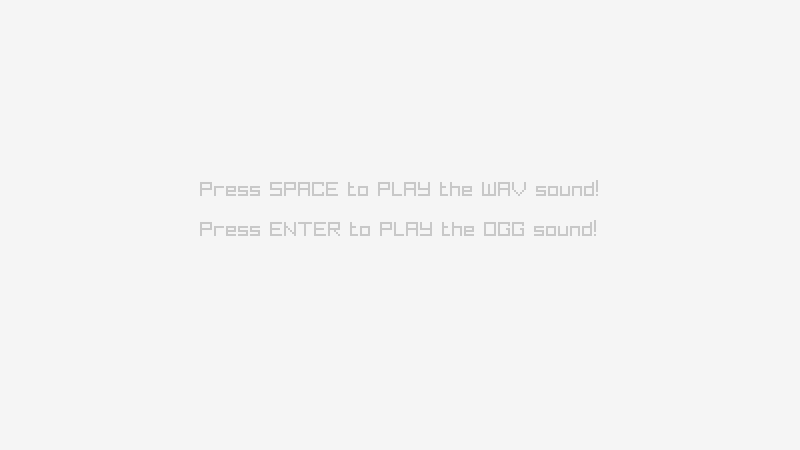
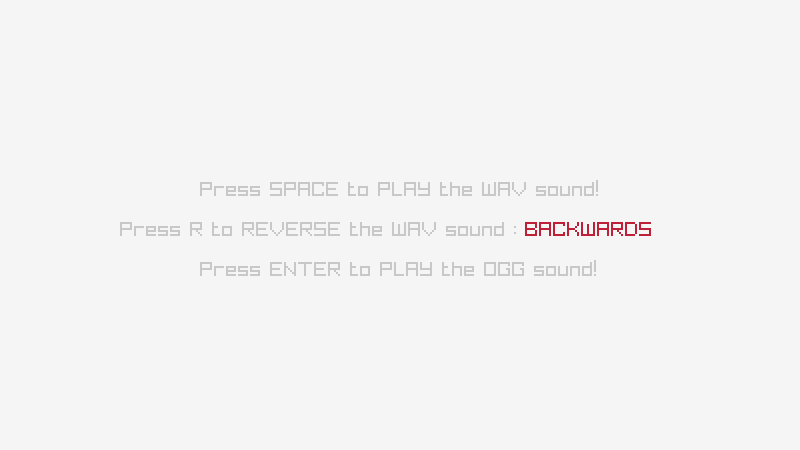
THIS COMMIT IS FOR REVIEW: audio update functions clarity review in examples

Changed region(s): [[0.1562, 0.4667, 0.8125, 0.5289], [0.25, 0.56, 0.75, 0.6222]]

diff --git a/examples/audio/audio_raw_stream_callback.c b/examples/audio/audio_raw_stream_callback.c
@@ -4,7 +4,7 @@
 *
 *   Example complexity rating: [★★★☆] 3/4
 *
-*   Example originally created with raylib 1.6, last time updated with raylib 4.2
+*   Example originally created with raylib 1.6, last time updated with raylib 6.0
 *
 *   Example created by Ramon Santamaria (@raysan5) and reviewed by James Hofmann (@triplefox)
 *
@@ -19,7 +19,12 @@
 
 #include <stdlib.h>         // Required for: malloc(), free()
 #include <math.h>           // Required for: sinf()
-#include <string.h>         // Required for: memcpy()
+
+enum Flags { FLAG_CHANNEL_MONO = 1u<<0, FLAG_SAMPLESIZE_SHORT = 1u<<1 };
+static unsigned int gflags = FLAG_CHANNEL_MONO | FLAG_SAMPLESIZE_SHORT; // mono + 16-bit to match initial stream specs
+#define CHANNEL_MONO() ((gflags & FLAG_CHANNEL_MONO) != 0)
+#define SAMPLESIZE_SHORT() ((gflags & FLAG_SAMPLESIZE_SHORT) != 0)
+#define TOGGLE(K, F) do { if (IsKeyPressed(K)) { gflags ^= (F); } } while (0)
 
 #define MAX_SAMPLES               512
 #define MAX_SAMPLES_PER_UPDATE   4096
@@ -37,7 +42,7 @@ float oldFrequency = 1.0f;
 float sineIdx = 0.0f;
 
 // Audio input processing callback
-void AudioInputCallback(void *buffer, unsigned int frames)
+void AudioInputCallbackMonoShort(void *buffer, unsigned int frames)
 {
     audioFrequency = frequency + (audioFrequency - frequency)*0.95f;
 
@@ -47,6 +52,54 @@ void AudioInputCallback(void *buffer, unsigned int frames)
     for (unsigned int i = 0; i < frames; i++)
     {
         d[i] = (short)(32000.0f*sinf(2*PI*sineIdx));
+        sineIdx += incr;
+        if (sineIdx > 1.0f) sineIdx -= 1.0f;
+    }
+}
+
+void AudioInputCallbackStereoShort(void *buffer, unsigned int frames)
+{
+    audioFrequency = frequency + (audioFrequency - frequency)*0.95f;
+
+    float incr = audioFrequency/44100.0f;
+    short *d = (short *)buffer;
+
+    for (unsigned int i = 0; i < frames; i++)
+    {
+        short s = (short)(32000.0f*sinf(2*PI*sineIdx));
+        d[2*i + 0] = s;   // L
+        d[2*i + 1] = s;   // R
+        sineIdx += incr;
+        if (sineIdx > 1.0f) sineIdx -= 1.0f;
+    }
+}
+
+void AudioInputCallbackMonoFloat(void *buffer, unsigned int frames)
+{
+    audioFrequency = frequency + (audioFrequency - frequency)*0.95f;
+
+    float incr = audioFrequency/44100.0f;
+    float *d = (float *)buffer;
+
+    for (unsigned int i = 0; i < frames; i++)
+    {
+        d[i] = sinf(2*PI*sineIdx);
+        sineIdx += incr;
+        if (sineIdx > 1.0f) sineIdx -= 1.0f;
+    }
+}
+
+void AudioInputCallbackStereoFloat(void *buffer, unsigned int frames)
+{
+    audioFrequency = frequency + (audioFrequency - frequency)*0.95f;
+    float incr = audioFrequency/44100.0f;
+    float *d = (float *)buffer;
+    for (unsigned int i = 0; i < frames; i++)
+    {
+        float s = sinf(2*PI*sineIdx);
+        d[2*i + 0] = s;
+        d[2*i + 1] = s;
+
         sineIdx += incr;
         if (sineIdx > 1.0f) sineIdx -= 1.0f;
     }
@@ -62,7 +115,7 @@ int main(void)
     const int screenWidth = 800;
     const int screenHeight = 450;
 
-    InitWindow(screenWidth, screenHeight, "raylib [audio] example - raw stream");
+    InitWindow(screenWidth, screenHeight, "raylib [audio] example - raw stream with callbacks");
 
     InitAudioDevice();              // Initialize audio device
 
@@ -71,7 +124,9 @@ int main(void)
     // Init raw audio stream (sample rate: 44100, sample size: 16bit-short, channels: 1-mono)
     AudioStream stream = LoadAudioStream(44100, 16, 1);
 
-    SetAudioStreamCallback(stream, AudioInputCallback);
+    SetAudioStreamCallback(stream, AudioInputCallbackMonoShort);
+    unsigned int previousSampleSize = stream.sampleSize;
+    unsigned int previousChannels   = stream.channels;
 
     // Buffer for the single cycle waveform we are synthesizing
     short *data = (short *)malloc(sizeof(short)*MAX_SAMPLES);
@@ -84,17 +139,6 @@ int main(void)
     // Position read in to determine next frequency
     Vector2 mousePosition = { -100.0f, -100.0f };
 
-    /*
-    // Cycles per second (hz)
-    float frequency = 440.0f;
-
-    // Previous value, used to test if sine needs to be rewritten, and to smoothly modulate frequency
-    float oldFrequency = 1.0f;
-
-    // Cursor to read and copy the samples of the sine wave buffer
-    int readCursor = 0;
-    */
-
     // Computed size in samples of the sine wave
     int waveLength = 1;
 
@@ -106,6 +150,32 @@ int main(void)
     // Main game loop
     while (!WindowShouldClose())    // Detect window close button or ESC key
     {
+        TOGGLE(KEY_M, FLAG_CHANNEL_MONO);
+        TOGGLE(KEY_F, FLAG_SAMPLESIZE_SHORT);
+        unsigned int nextSampleSize = (SAMPLESIZE_SHORT())? 16u : 32u;
+        unsigned int nextChannels = (CHANNEL_MONO())? 1u  : 2u;
+        if (nextSampleSize != previousSampleSize || nextChannels != previousChannels)
+        {
+            StopAudioStream(stream);
+            UnloadAudioStream(stream);
+            stream = LoadAudioStream(44100, nextSampleSize, nextChannels);
+            // CORRECT ALIGNMENT
+            if (nextChannels == 1 && nextSampleSize == 16) SetAudioStreamCallback(stream, AudioInputCallbackMonoShort);
+            if (nextChannels == 2 && nextSampleSize == 16) SetAudioStreamCallback(stream, AudioInputCallbackStereoShort);
+            if (nextChannels == 1 && nextSampleSize == 32) SetAudioStreamCallback(stream, AudioInputCallbackMonoFloat);
+            if (nextChannels == 2 && nextSampleSize == 32) SetAudioStreamCallback(stream, AudioInputCallbackStereoFloat);
+
+            // INCORRECT ALIGNMENT TESTS: comment and uncomment or add your own to observe common misconfigurations
+            // if (nextChannels == 1 && nextSampleSize == 16) SetAudioStreamCallback(stream, AudioInputCallbackStereoShort);
+            // if (nextChannels == 1 && nextSampleSize == 32) SetAudioStreamCallback(stream, AudioInputCallbackMonoShort);
+            // if (nextChannels == 2 && nextSampleSize == 32) SetAudioStreamCallback(stream, AudioInputCallbackMonoShort);
+            // if (nextChannels == 2 && nextSampleSize == 16) SetAudioStreamCallback(stream, AudioInputCallbackMonoFloat);
+            // if (nextChannels == 2 && nextSampleSize == 16) SetAudioStreamCallback(stream, AudioInputCallbackStereoFloat);
+
+            PlayAudioStream(stream);
+            previousSampleSize = nextSampleSize;
+            previousChannels = nextChannels;
+        }
         // Update
         //----------------------------------------------------------------------------------
         mousePosition = GetMousePosition();
@@ -124,7 +194,6 @@ int main(void)
         if (frequency != oldFrequency)
         {
             // Compute wavelength. Limit size in both directions
-            //int oldWavelength = waveLength;
             waveLength = (int)(22050/frequency);
             if (waveLength > MAX_SAMPLES/2) waveLength = MAX_SAMPLES/2;
             if (waveLength < 1) waveLength = 1;
@@ -140,41 +209,9 @@ int main(void)
                 data[j] = (short)0;
             }
 
-            // Scale read cursor's position to minimize transition artifacts
-            //readCursor = (int)(readCursor*((float)waveLength/(float)oldWavelength));
             oldFrequency = frequency;
         }
 
-        /*
-        // Refill audio stream if required
-        if (IsAudioStreamProcessed(stream))
-        {
-            // Synthesize a buffer that is exactly the requested size
-            int writeCursor = 0;
-
-            while (writeCursor < MAX_SAMPLES_PER_UPDATE)
-            {
-                // Start by trying to write the whole chunk at once
-                int writeLength = MAX_SAMPLES_PER_UPDATE-writeCursor;
-
-                // Limit to the maximum readable size
-                int readLength = waveLength-readCursor;
-
-                if (writeLength > readLength) writeLength = readLength;
-
-                // Write the slice
-                memcpy(writeBuf + writeCursor, data + readCursor, writeLength*sizeof(short));
-
-                // Update cursors and loop audio
-                readCursor = (readCursor + writeLength) % waveLength;
-
-                writeCursor += writeLength;
-            }
-
-            // Copy finished frame to audio stream
-            UpdateAudioStream(stream, writeBuf, MAX_SAMPLES_PER_UPDATE);
-        }
-        */
         //----------------------------------------------------------------------------------
 
         // Draw
@@ -185,6 +222,10 @@ int main(void)
 
             DrawText(TextFormat("sine frequency: %i",(int)frequency), GetScreenWidth() - 220, 10, 20, RED);
             DrawText("click mouse button to change frequency or pan", 10, 10, 20, DARKGRAY);
+            DrawText("press M to SWAP channels [ M ]:", 250, 366, 20, BLUE);
+            DrawText((CHANNEL_MONO())? "MONO" : "STEREO", 600, 366, 20, (CHANNEL_MONO())? GREEN : RED);
+            DrawText("press F to SWAP Sample Size [ F ]:", 250, 400, 20, BLUE);
+            DrawText((SAMPLESIZE_SHORT())? "16" : "32", 620, 400, 20, (SAMPLESIZE_SHORT())? GREEN : RED);
 
             // Draw the current buffer state proportionate to the screen
             for (int i = 0; i < screenWidth; i++)

diff --git a/examples/audio/audio_sound_loading.c b/examples/audio/audio_sound_loading.c
@@ -4,7 +4,7 @@
 *
 *   Example complexity rating: [★☆☆☆] 1/4
 *
-*   Example originally created with raylib 1.1, last time updated with raylib 3.5
+*   Example originally created with raylib 1.1, last time updated with raylib 6.0
 *
 *   Example licensed under an unmodified zlib/libpng license, which is an OSI-certified,
 *   BSD-like license that allows static linking with closed source software
@@ -14,6 +14,8 @@
 ********************************************************************************************/
 
 #include "raylib.h"
+#include <stdlib.h> // Required for: malloc(), free()
+#include <string.h> // Required for: memcpy()
 
 //------------------------------------------------------------------------------------
 // Program main entry point
@@ -32,6 +34,17 @@ int main(void)
     Sound fxWav = LoadSound("resources/sound.wav");         // Load WAV audio file
     Sound fxOgg = LoadSound("resources/target.ogg");        // Load OGG audio file
 
+    bool soundReversed = false;
+
+    float *soundData = malloc(sizeof(float)*fxWav.frameCount*fxWav.stream.channels);
+    float *scratchSoundData = malloc(sizeof(float)*fxWav.frameCount*fxWav.stream.channels);
+
+    Wave wave = LoadWave("resources/sound.wav");
+    // Sounds always have 32bit sampleSize:
+    WaveFormat(&wave, fxWav.stream.sampleRate, 32, fxWav.stream.channels);
+    memcpy(soundData, wave.data, sizeof(float)*fxWav.frameCount*fxWav.stream.channels);
+    UnloadWave(wave);
+
     SetTargetFPS(60);               // Set our game to run at 60 frames-per-second
     //--------------------------------------------------------------------------------------
 
@@ -40,6 +53,18 @@ int main(void)
     {
         // Update
         //----------------------------------------------------------------------------------
+        if (IsKeyPressed(KEY_R))
+        {
+            soundReversed = !soundReversed;
+            for (unsigned int i = 0; i < fxWav.frameCount; i++)
+            {
+                unsigned int src = (soundReversed)? fxWav.frameCount - 1 - i : i;
+                // Sounds always have STEREO channels:
+                scratchSoundData[i * fxWav.stream.channels + 0] = soundData[src * fxWav.stream.channels + 0];
+                scratchSoundData[i * fxWav.stream.channels + 1] = soundData[src * fxWav.stream.channels + 1];
+            }
+            UpdateSound(fxWav, scratchSoundData, fxWav.frameCount);
+        }
         if (IsKeyPressed(KEY_SPACE)) PlaySound(fxWav);      // Play WAV sound
         if (IsKeyPressed(KEY_ENTER)) PlaySound(fxOgg);      // Play OGG sound
         //----------------------------------------------------------------------------------
@@ -51,7 +76,9 @@ int main(void)
             ClearBackground(RAYWHITE);
 
             DrawText("Press SPACE to PLAY the WAV sound!", 200, 180, 20, LIGHTGRAY);
-            DrawText("Press ENTER to PLAY the OGG sound!", 200, 220, 20, LIGHTGRAY);
+            DrawText(TextFormat("Press R to REVERSE the WAV sound : "), 120, 220, 20, LIGHTGRAY);
+            DrawText((soundReversed)? "BACKWARDS" : "FORWARDS", 525, 220, 20, (soundReversed)? MAROON : DARKGREEN);
+            DrawText("Press ENTER to PLAY the OGG sound!", 200, 260, 20, LIGHTGRAY);
 
         EndDrawing();
         //----------------------------------------------------------------------------------
@@ -59,6 +86,8 @@ int main(void)
 
     // De-Initialization
     //--------------------------------------------------------------------------------------
+    free(soundData);
+    free(scratchSoundData);
     UnloadSound(fxWav);     // Unload sound data
     UnloadSound(fxOgg);     // Unload sound data
 

diff --git a/examples/audio/audio_raw_stream.c b/examples/audio/audio_raw_stream.c
@@ -4,7 +4,7 @@
 *
 *   Example complexity rating: [★★★☆] 3/4
 *
-*   Example originally created with raylib 1.6, last time updated with raylib 4.2
+*   Example originally created with raylib 1.6, last time updated with raylib 6.0
 *
 *   Example created by Ramon Santamaria (@raysan5) and reviewed by James Hofmann (@triplefox)
 *
@@ -23,34 +23,6 @@
 
 #define MAX_SAMPLES               512
 #define MAX_SAMPLES_PER_UPDATE   4096
-
-// Cycles per second (hz)
-float frequency = 440.0f;
-
-// Audio frequency, for smoothing
-float audioFrequency = 440.0f;
-
-// Previous value, used to test if sine needs to be rewritten, and to smoothly modulate frequency
-float oldFrequency = 1.0f;
-
-// Index for audio rendering
-float sineIdx = 0.0f;
-
-// Audio input processing callback
-void AudioInputCallback(void *buffer, unsigned int frames)
-{
-    audioFrequency = frequency + (audioFrequency - frequency)*0.95f;
-
-    float incr = audioFrequency/44100.0f;
-    short *d = (short *)buffer;
-
-    for (unsigned int i = 0; i < frames; i++)
-    {
-        d[i] = (short)(32000.0f*sinf(2*PI*sineIdx));
-        sineIdx += incr;
-        if (sineIdx > 1.0f) sineIdx -= 1.0f;
-    }
-}
 
 //------------------------------------------------------------------------------------
 // Program main entry point
@@ -71,8 +43,6 @@ int main(void)
     // Init raw audio stream (sample rate: 44100, sample size: 16bit-short, channels: 1-mono)
     AudioStream stream = LoadAudioStream(44100, 16, 1);
 
-    SetAudioStreamCallback(stream, AudioInputCallback);
-
     // Buffer for the single cycle waveform we are synthesizing
     short *data = (short *)malloc(sizeof(short)*MAX_SAMPLES);
 
@@ -84,7 +54,6 @@ int main(void)
     // Position read in to determine next frequency
     Vector2 mousePosition = { -100.0f, -100.0f };
 
-    /*
     // Cycles per second (hz)
     float frequency = 440.0f;
 
@@ -93,7 +62,6 @@ int main(void)
 
     // Cursor to read and copy the samples of the sine wave buffer
     int readCursor = 0;
-    */
 
     // Computed size in samples of the sine wave
     int waveLength = 1;
@@ -124,8 +92,8 @@ int main(void)
         if (frequency != oldFrequency)
         {
             // Compute wavelength. Limit size in both directions
-            //int oldWavelength = waveLength;
-            waveLength = (int)(22050/frequency);
+            int oldWavelength = waveLength;
+            waveLength = (int)(stream.sampleRate/frequency);
             if (waveLength > MAX_SAMPLES/2) waveLength = MAX_SAMPLES/2;
             if (waveLength < 1) waveLength = 1;
 
@@ -141,11 +109,10 @@ int main(void)
             }
 
             // Scale read cursor's position to minimize transition artifacts
-            //readCursor = (int)(readCursor*((float)waveLength/(float)oldWavelength));
+            readCursor = (int)(readCursor*((float)waveLength/(float)oldWavelength));
             oldFrequency = frequency;
         }
 
-        /*
         // Refill audio stream if required
         if (IsAudioStreamProcessed(stream))
         {
@@ -174,7 +141,6 @@ int main(void)
             // Copy finished frame to audio stream
             UpdateAudioStream(stream, writeBuf, MAX_SAMPLES_PER_UPDATE);
         }
-        */
         //----------------------------------------------------------------------------------
 
         // Draw
